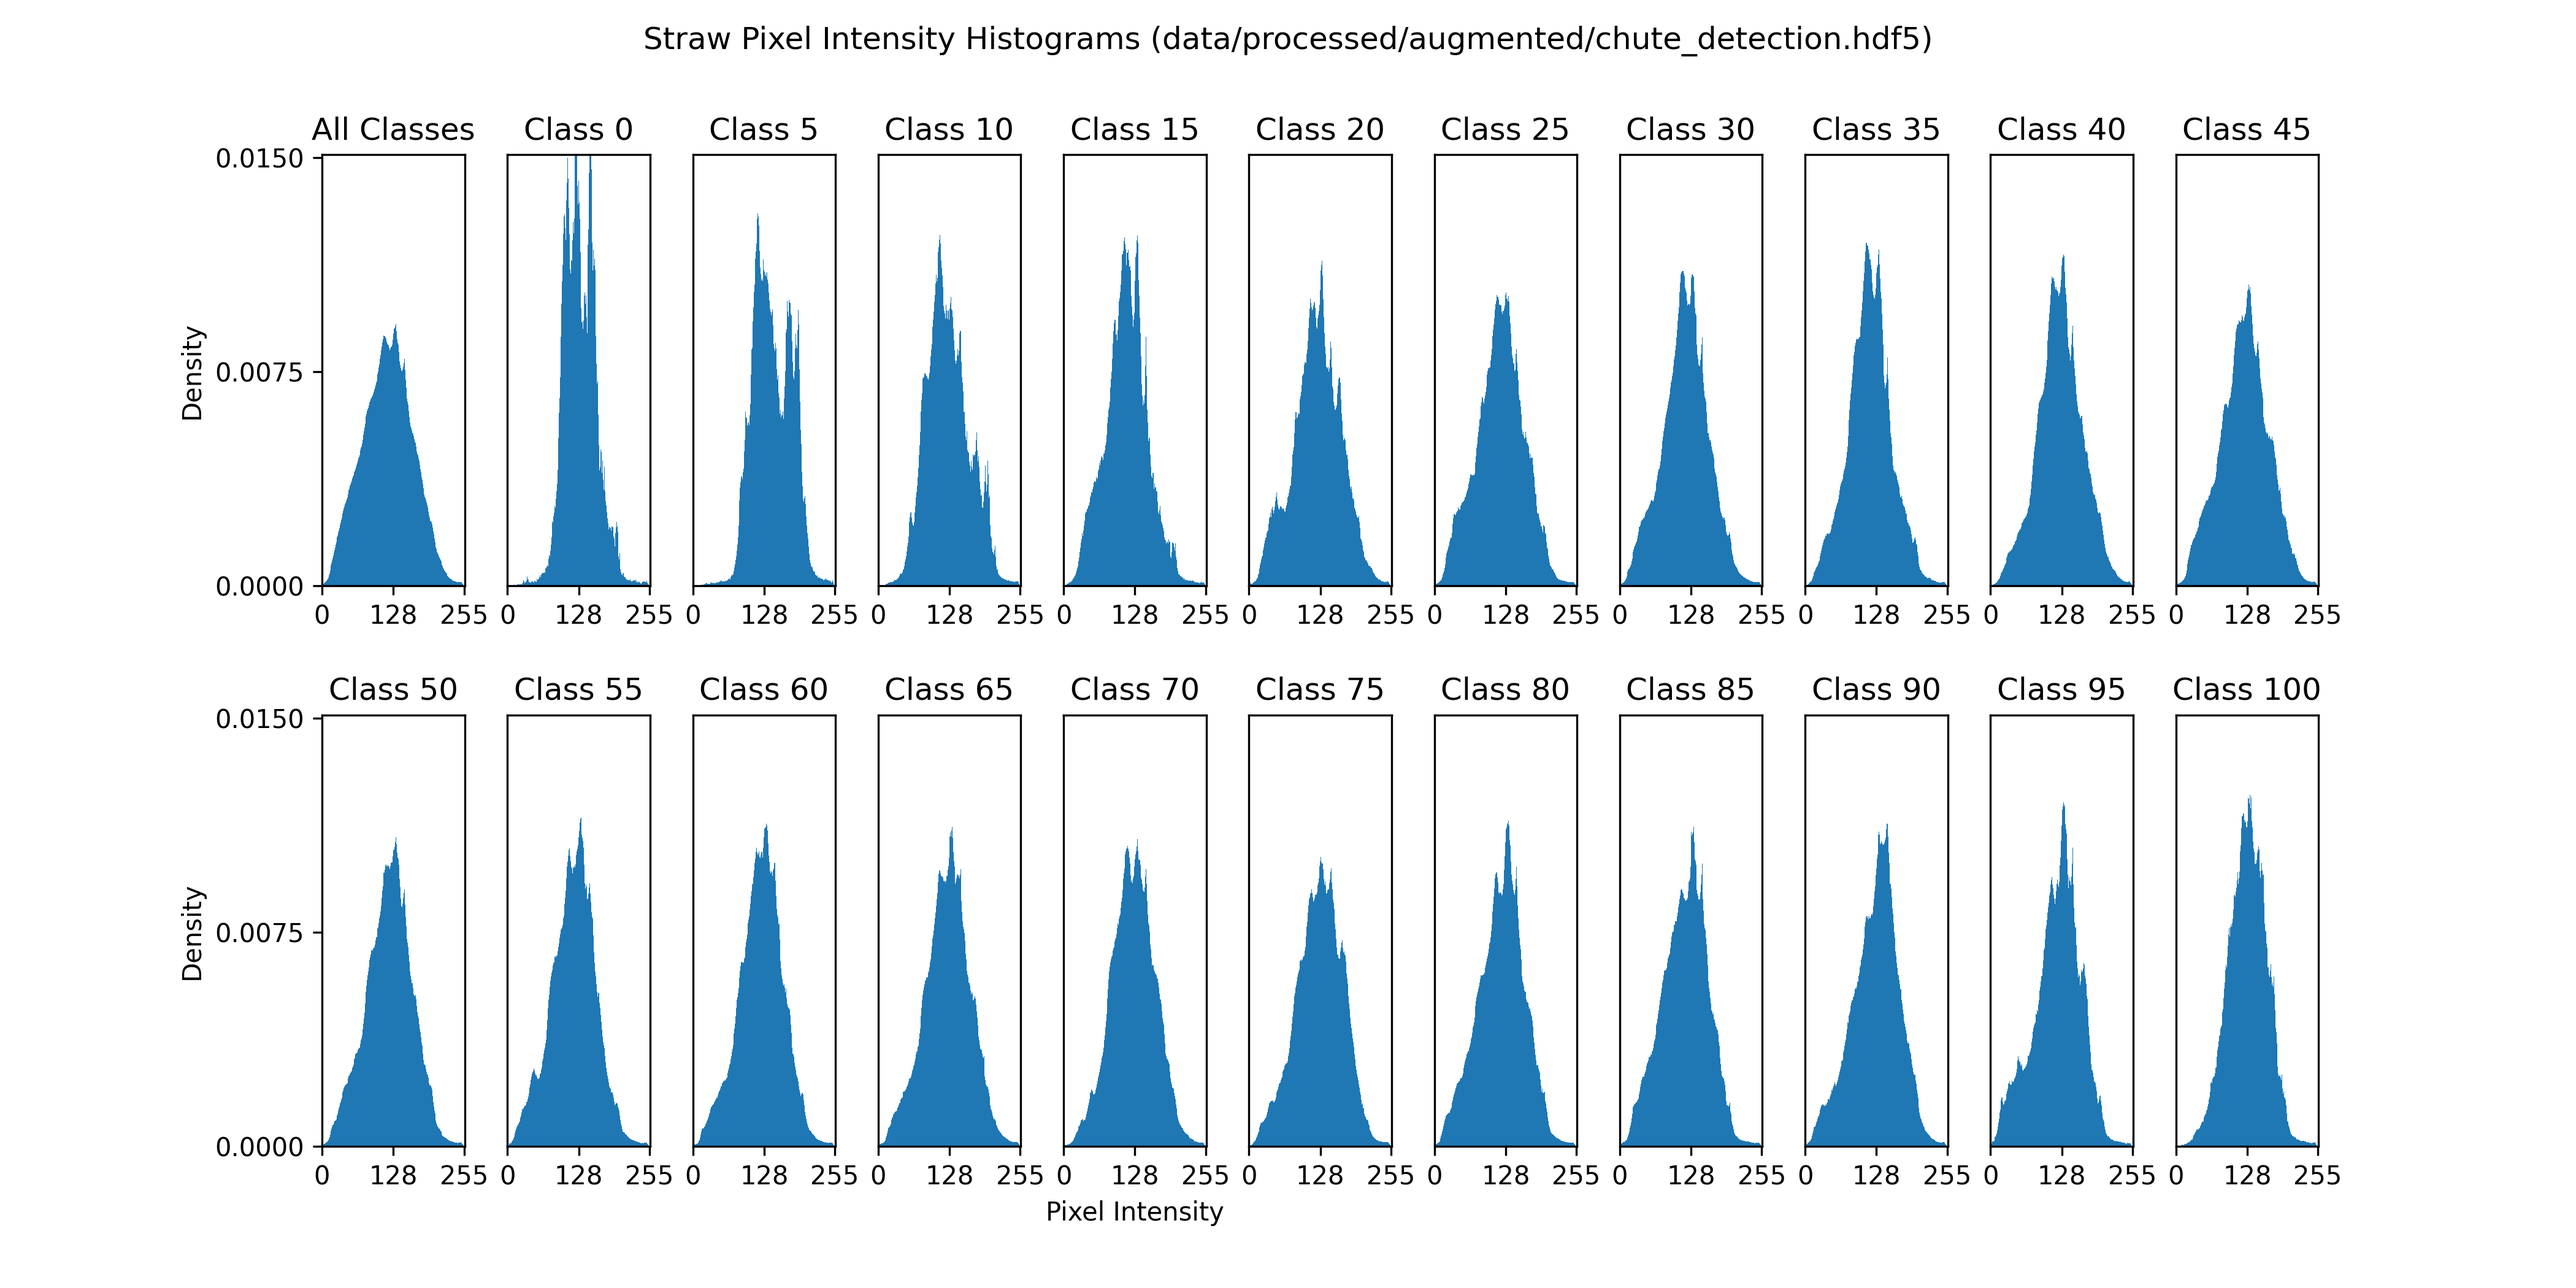
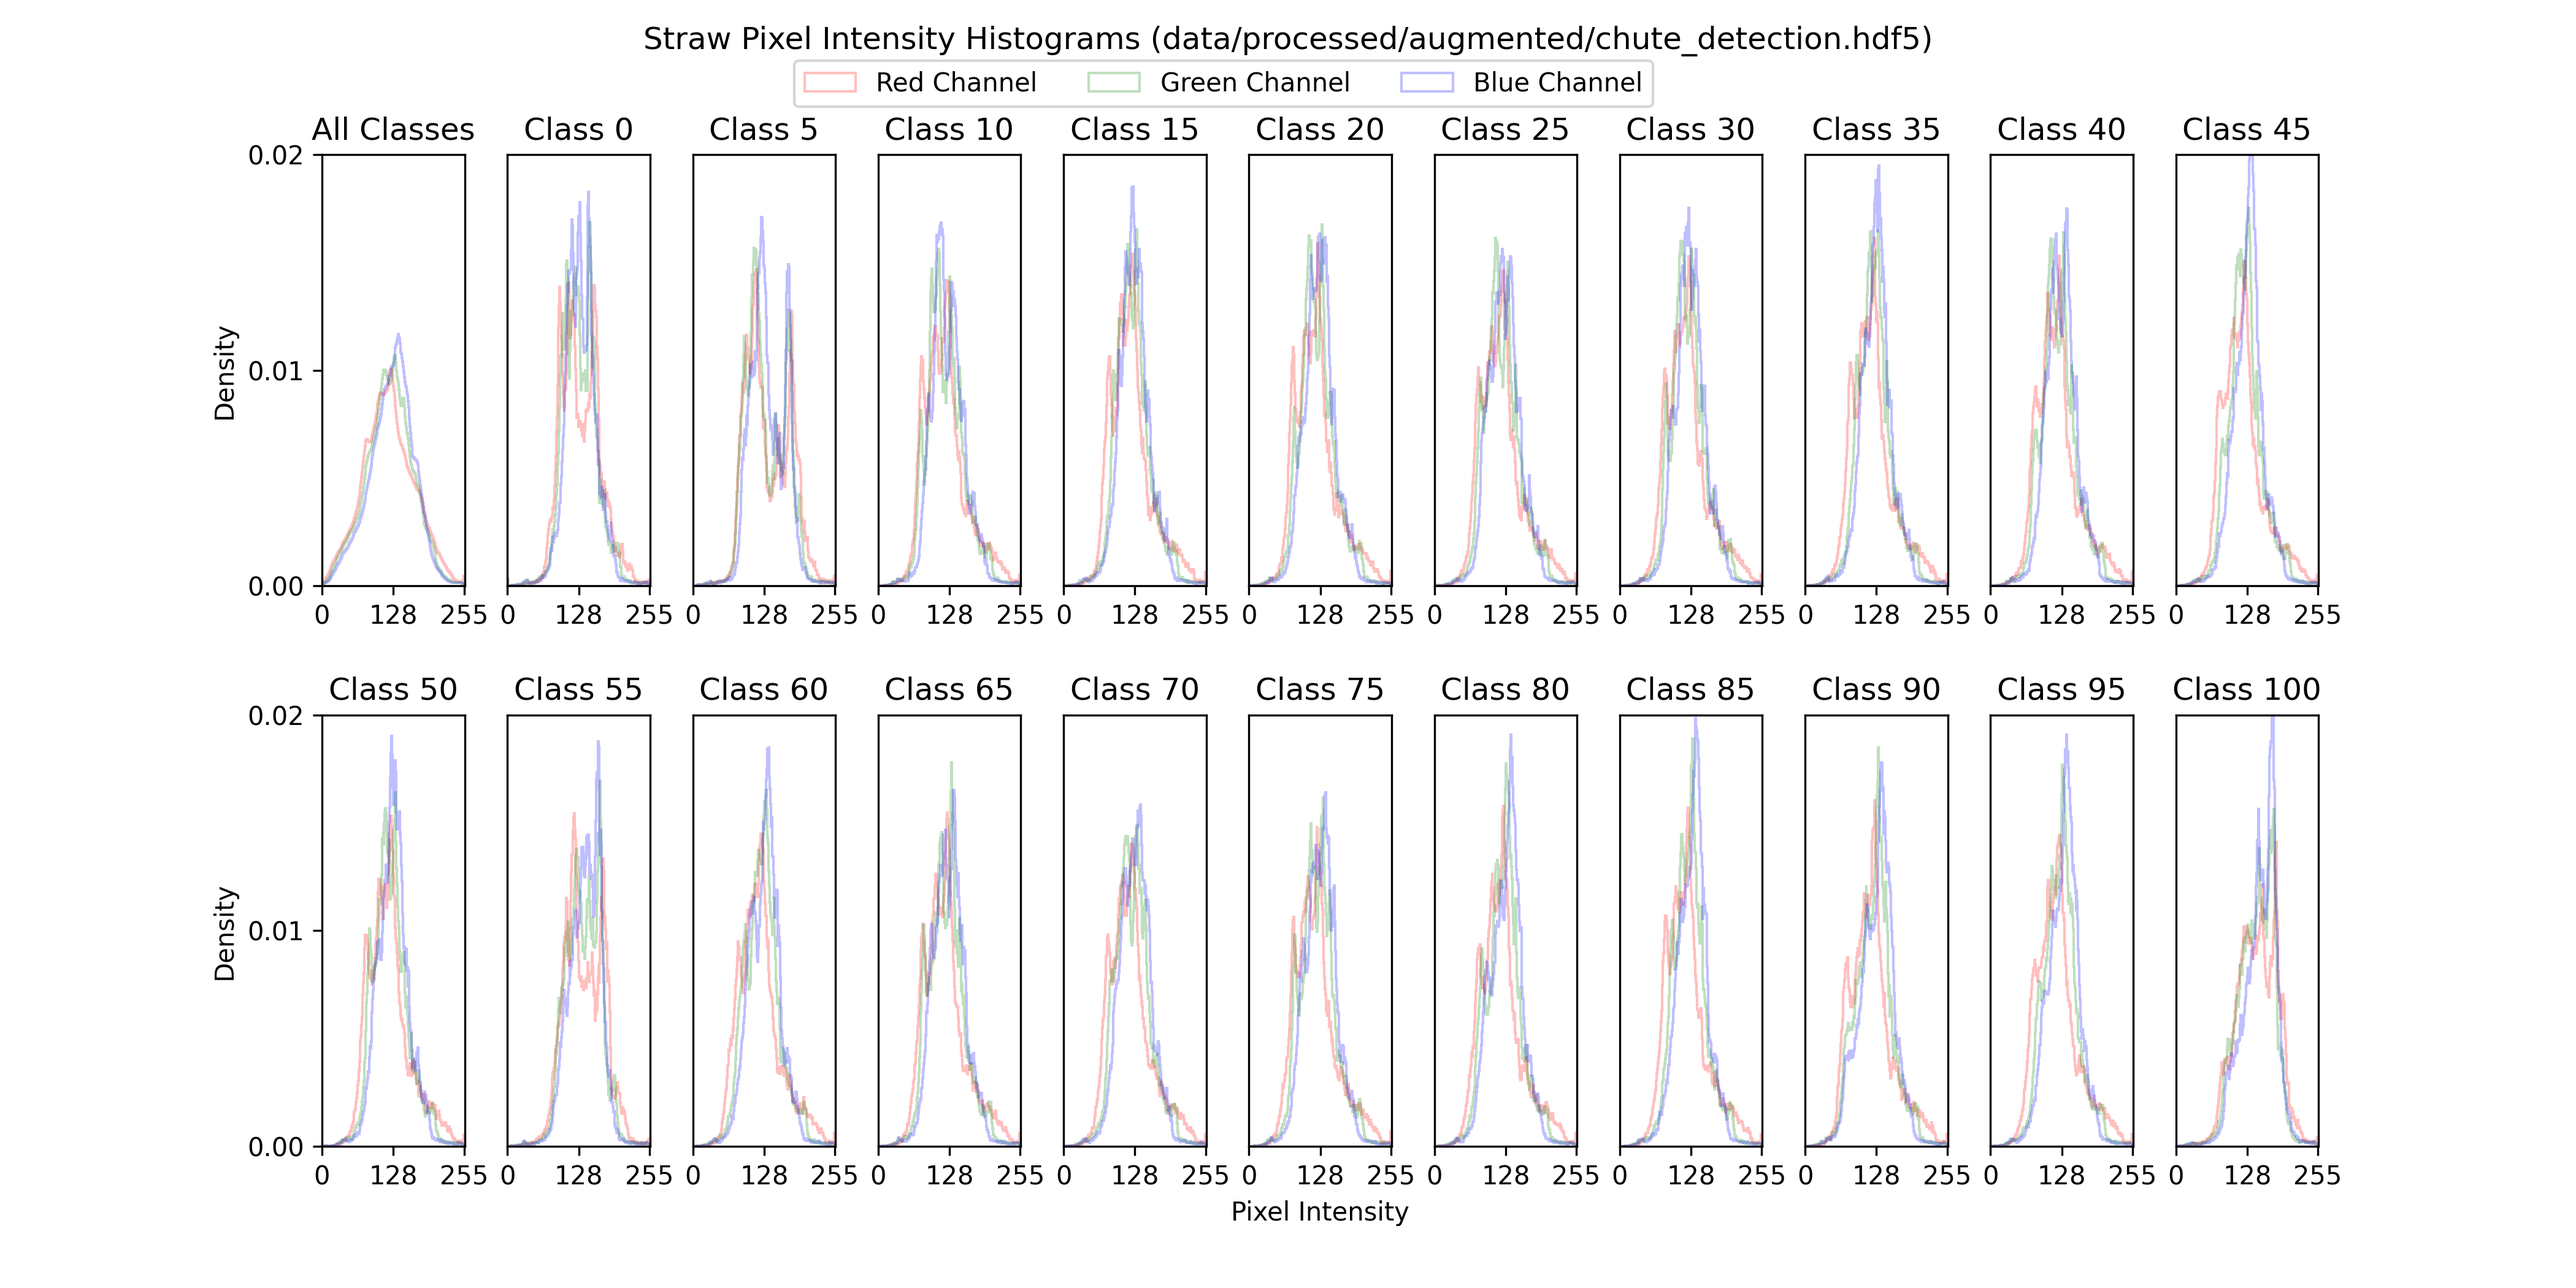
add rgb channels to pixel intensity historgrams

diff --git a/strawml/data/straw_analysis.py b/strawml/data/straw_analysis.py
@@ -152,49 +152,64 @@ def plot_pixel_intensities(class_dict: dict, frames: h5py.File) -> None:
     fig = plt.figure(figsize=(14,7))
     gs = gridspec.GridSpec(2, 11, figure=fig, wspace=0.3, hspace=0.3)
     
+    ylim = 0.02
+    yticks = [0, ylim/2, ylim]
+    
+    histtype = 'step'
+    
     ax1 = fig.add_subplot(gs[0, 0])
     ax1.set_title('All Classes')
     ax1.set_xlim(0, 256)
-    ax1.set_ylim(0, 0.0151)
-    ax1.set_yticks([0, 0.0075, 0.015])
+    ax1.set_ylim(0, ylim)
+    ax1.set_yticks(yticks)
     ax1.set_xticks([0, 128, 255])
     ax1.set_ylabel('Density')
 
         
     print('Plotting pixel intensity histograms for each class...')
     class_counter = 0
-    total_class_counts = np.zeros(256)
+    total_class_counts = np.zeros((3, 256))
     for row in range(2):
         for col in range(0, 11):
             if row == 0: col += 1
             if row == 0 and col == 11: break
-            class_counts = np.zeros(256)
+            class_counts = np.zeros((3, 256))
             ax = fig.add_subplot(gs[row, col])
             print(f'Row: {row}, Col: {col}, Class {classes[class_counter]}')
             for frame_name in tqdm(class_dict['augmented'].get(float(classes[class_counter]/100), []) + class_dict['original'].get(float(classes[class_counter]/100), [])):
                 image = decode_binary_image(frames[frame_name]['image'][...])
                 image, bbox = rotate_and_crop_to_bbox(image, frames[frame_name]['annotations']['bbox_chute'][...])
                 # image = cv2.cvtColor(image, cv2.COLOR_BGR2GRAY)
-                class_counts += np.histogram(image.ravel(), bins=256, range=(0, 256))[0]
+                for channel in range(3):
+                    class_counts[channel] = np.histogram(image[:, :, channel].ravel(), bins=256, range=(0, 256))[0]
                 total_class_counts += class_counts
-            ax.hist(np.arange(0, 256), bins=256, weights=class_counts, density=True, histtype='bar')
+            
+            ax.hist(np.arange(0, 256), bins=256, weights=class_counts[0], density=True, histtype=histtype, alpha=0.25, color='r')
+            ax.hist(np.arange(0, 256), bins=256, weights=class_counts[1], density=True, histtype=histtype, alpha=0.25, color='g')
+            ax.hist(np.arange(0, 256), bins=256, weights=class_counts[2], density=True, histtype=histtype, alpha=0.25, color='b')
             ax.set_title(f'Class {classes[class_counter]}')
             ax.set_xticks([0, 128, 255])
             
-            ax.set_ylim(0, 0.0151)
+            ax.set_ylim(0, ylim)
             ax.set_xlim(0, 256)
             if col == 0:
                  ax.set_ylabel('Density')
-                 ax.set_yticks([0, 0.0075, 0.015])
+                 ax.set_yticks(yticks)
             else:
                 ax.set_yticks([])
-            if row == 1 and col == 4:
+            if row == 1 and col == 5:
                 ax.set_xlabel('Pixel Intensity')
                 
             
             class_counter += 1
+            
+        
 
-    ax1.hist(np.arange(0, 256), bins=256, weights=total_class_counts, density=True, histtype='bar')
+    ax1.hist(np.arange(0, 256), bins=256, weights=total_class_counts[0], density=True, histtype=histtype, alpha=0.25, color='r', label='Red Channel')
+    ax1.hist(np.arange(0, 256), bins=256, weights=total_class_counts[1], density=True, histtype=histtype, alpha=0.25, color='g', label='Green Channel')
+    ax1.hist(np.arange(0, 256), bins=256, weights=total_class_counts[2], density=True, histtype=histtype, alpha=0.25, color='b', label='Blue Channel')
+    
+    fig.legend(loc='center', ncols=3, bbox_to_anchor=(0.475, 0.935))
     
     plt.suptitle(f'Straw Pixel Intensity Histograms ({frames.filename})')
     plt.savefig('reports/figures/straw_analysis/data/pixel_intensity_histograms.png', dpi=300)
@@ -419,13 +434,14 @@ def plot_edge_detection(class_dict: dict, frames: h5py.File) -> None:
 if __name__ == '__main__':
     frames = h5py.File('data/processed/augmented/chute_detection.hdf5', 'r')
     class_dictionary = get_frames_by_class(frames)
+    
     # plot_class_distribution(class_dictionary, frames)
     # plot_pixel_intensities(class_dictionary, frames)
     # plot_pixel_means_and_variance(class_dictionary, frames)
     # mean_images = plot_mean_image_per_class(class_dictionary, frames)
     # plot_variance_image_per_class(class_dictionary, frames, mean_images)
     # plot_mse_matrix(class_dictionary, frames, mean_images)
-    plot_edge_detection(class_dictionary, frames)
+    # plot_edge_detection(class_dictionary, frames)
     
     
 
